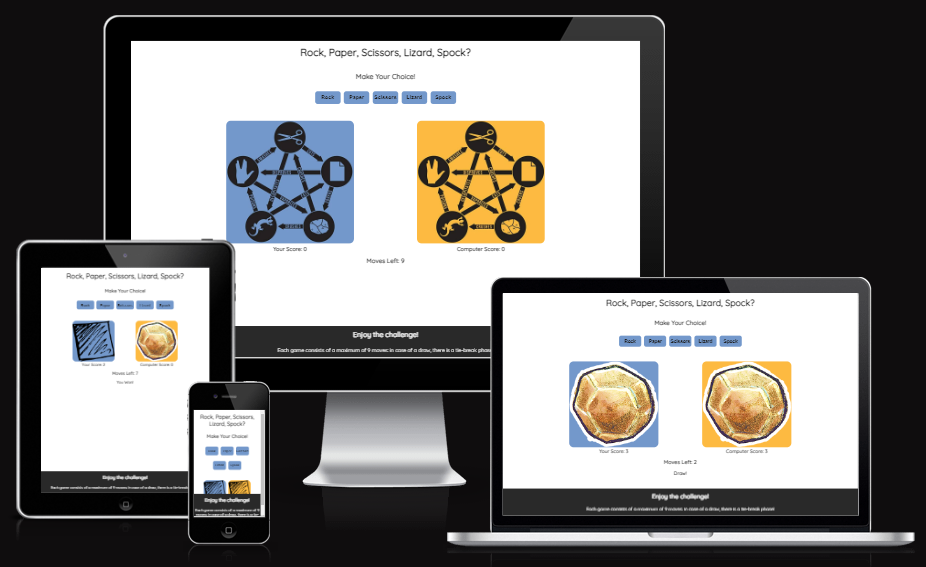
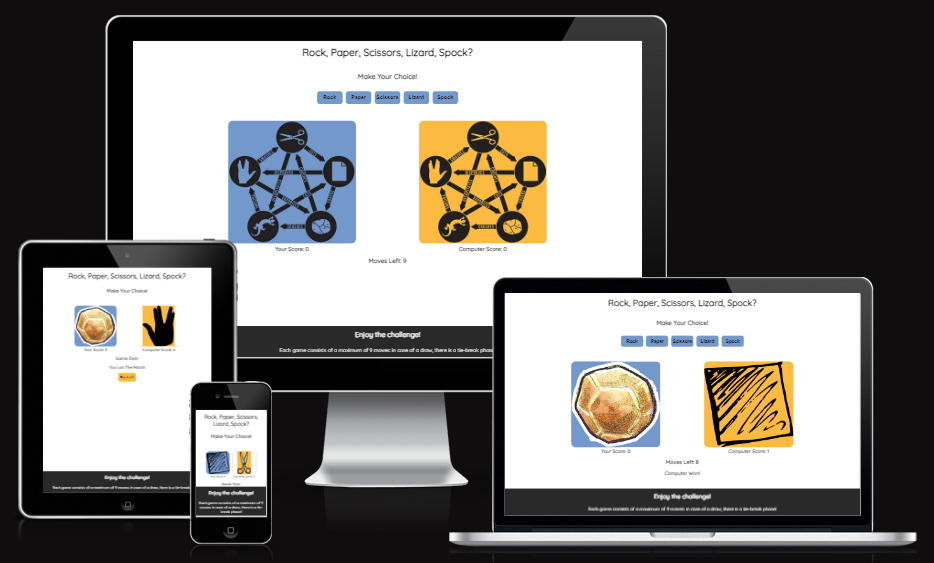
Docs: completed the README.md file

diff --git a/assets/js/script.js b/assets/js/script.js
@@ -110,5 +110,5 @@ function gameManager(resultInnerText) {
     // Play-again logic, simply based on a page refresh and upon button availability after game over condition is met:
     reloadButton.addEventListener('click', function () {
         window.location.reload();
-    })
+    });
 }

diff --git a/README.md b/README.md
@@ -79,7 +79,7 @@ The site mainly targets people who typically are casual or regular pastime-consu
 
 - HTML
 
-    - No errors found via the official [W3C validator](https://validator.w3.org/nu/).
+    - No errors found via the official [W3C validator](https://validator.w3.org/#validate_by_input).
 
 <br>
 
@@ -89,11 +89,16 @@ The site mainly targets people who typically are casual or regular pastime-consu
 
 <br>
 
+- Javascript
+
+    - No errors found via [JSHint](https://jshint.com/).
+
+<br>
+
 - Accessibility
 
     - I confirmed that both colors and fonts chosen are easy to read and tested accessibility via Lighthouse, within Chrome DevTools:
-
-![Lighthouse](/assets/media/performance-lighthouse.png "Performance Analysis")
+    ![Lighthouse](/assets/media/performance-lighthouse.png "Performance Analysis")
 
 <br>
 
@@ -107,19 +112,19 @@ The site mainly targets people who typically are casual or regular pastime-consu
 
 - Fixed bugs
 
-    - The home page, at the very beginning, had not been built with a mobile-first approach. This resulted in a poor mobile experience, net of the necessary media queries added. Therefore, by changing approach, the code became easier to (re)write and the page much better to look at.
+    - There were some logic issues in properly handling the tie-break phase. Everything was fixed and retest after reviewing a few lines of JS code. Relevant comments have also been added to the code for reference.
 
 <br>
 
 - Unfixed bugs
 
-    - There is a weird rendering issue affecting Title and Navigation Menu on some 2018 Apple devices (iPhone XS Max and MacBook Air), whose root cause has not been possible to identify yet, either via searching for it on tech forums or via YouTube. No compatibility issues seem to be involved with respect to the code used.
+    - No bugs at this writing.
 
 <br>
 
 - Future developments
 
-    - Home page is not 4K-optimized, as current choices of hero image and textual contents do not provide the same immersive experience they have for lower resolutions. Future developments will address this by looking for more advanced media contents and the addition of some extra information.
+    - Since it is just a simple game, with no need to capture user choices, any impression of 'overengineering' has been averted. Yet, it could still make sense to move the comparison logic used in the checkWinner() function in a data structure, i.e. via an array of dictionaries, with each element representing everything we need to know about a specific move.
 
 <br>
 
@@ -139,7 +144,7 @@ The site mainly targets people who typically are casual or regular pastime-consu
 
 <br>
 
-The live link can be found here: [NFTs For Dummies](https://maurizio-github.github.io/portfolio-project-1/).
+The live link can be found here: [Rock, Paper, Scissors, Lizard, Spock?](https://maurizio-github.github.io/portfolio-project-2/).
 
 <br>
 
@@ -153,13 +158,13 @@ The live link can be found here: [NFTs For Dummies](https://maurizio-github.gith
 
 - Content
 
-    - Ready-to-use code, to make and properly format the navigation menu, the hero image animation and part of the footer, was taken from Coding Institute's [Love Running](https://github.com/Code-Institute-Solutions/love-running-2.0-sourcecode) project.
+    - Ready-to-use code, making the very first part of the project was taken and properly adapted from Coding Institute's [Love Maths](https://github.com/Code-Institute-Org/love-maths) project.
 
 <br>
 
 - Media
 
-    - Every image presented was taken from [Pexel](https://www.pexels.com/), apart from the picture representing Beeple's artwork, which was taken directly from [Christie's](https://onlineonly.christies.com/s/beeple-first-5000-days/beeple-b-1981-1/112924?ldp_breadcrumb=back).
+    - Every image presented was taken from [ClipArtMax](https://www.clipartmax.com/), apart from the pictures representing the game rules, which were taken from the web.
 
 <br>
 
